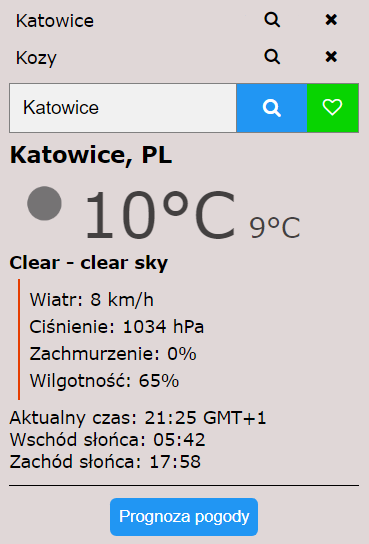
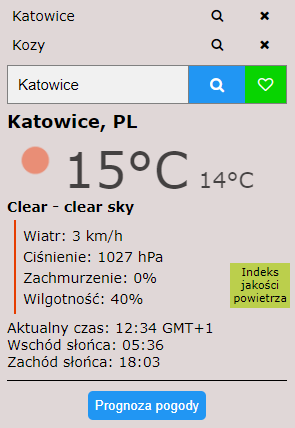
Add air pollution

diff --git a/script.js b/script.js
@@ -61,7 +61,7 @@ const showWeather = () => {
       .then((resp) => resp.json())
       .then(data => {
         document.getElementById("city").innerHTML = data.name+", "+data.sys.country;
-        document.getElementById("temp").innerHTML = "<img src='http://openweathermap.org/img/wn/"+data.weather[0].icon+"@2x.png' id='icon'/>"+
+        document.getElementById("temp").innerHTML = "<img src='http://openweathermap.org/img/wn/"+data.weather[0].icon+"@2x.png' class='icon'/>"+
         Math.round(parseFloat(data.main.temp)-273.15)+"&deg;C<span id='temp-feels'>"+Math.round(parseFloat(data.main.feels_like)-273.15)+"&deg;C</span>";
         document.getElementById("desc").innerHTML = data.weather[0].main+" - "+data.weather[0].description;
         document.getElementById("wind-speed").innerHTML = "Wiatr: "+Math.round(parseFloat(data.wind.speed)*(60*60)/1000)+" km/h";
@@ -77,6 +77,11 @@ const showWeather = () => {
         removeChild(parent);
         showForecast();
         returnTime((data.timezone/3600)-1);
+
+        let lat = data.coord.lat;
+        let lon = data.coord.lon;
+        let timezone = data.timezone
+        showAirPollution(lat, lon, timezone);
       })
       .catch(error => {
         console.log(error);
@@ -105,6 +110,7 @@ const showForecast = () => {
         container.appendChild(time);
 
         const icon = document.createElement('img');
+        icon.className = "icon-forecast";
         icon.src = 'http://openweathermap.org/img/wn/' + data.weather[0].icon + '.png';
         container.appendChild(icon);
 
@@ -127,6 +133,7 @@ const showForecast = () => {
         container.appendChild(forecastInfo);
 
         document.getElementById("forecast").appendChild(container);
+        forecastBgColor();
     })
   })
   .catch(error => {
@@ -134,6 +141,55 @@ const showForecast = () => {
   });
 }
 
+const showAirPollution = (lat, lon, timezone) => {
+  console.log(lat, lon);
+  const url = "https://api.openweathermap.org/data/2.5/air_pollution?lat="+lat+"&lon="+lon+"&appid=YOURAPIKEY";
+  fetch(url)
+  .then((resp) => resp.json())
+  .then(air => {
+    air.list.forEach(data => {
+      let aqi = data.main.aqi;
+      const airPollution = document.getElementById("air-pollution").style;
+      const airPollutionContent = document.getElementById("air-pollution-content").style;
+      if(aqi==1){
+        airPollution.backgroundColor = "#79bc6a";
+        airPollutionContent.backgroundColor = "#79bc6a";
+      }
+      if(aqi==2){
+        airPollution.backgroundColor = "#bbcf4c";
+        airPollutionContent.backgroundColor = "#bbcf4c";
+      }
+      if(aqi==3){
+        airPollution.backgroundColor = "#eec20b";
+        airPollutionContent.backgroundColor = "#eec20b";
+      }
+      if(aqi==4){
+        airPollution.backgroundColor = "#f29305";
+        airPollutionContent.backgroundColor = "#f29305";
+      }
+      if(aqi==5){
+        airPollution.backgroundColor = "#e8416f";
+        airPollutionContent.backgroundColor = "#e8416f";
+      }
+      document.getElementById("air-pollution-time").innerHTML = getTimeFromTimestamp((data.dt+timezone)-3600);
+      document.getElementById("air-pollution-aqi").innerHTML = "AQI: "+aqi;
+    })
+  })
+  .catch(error => {
+    console.log(error);
+  });
+}
+
+const forecastBgColor = () =>{
+  const containerColor = document.getElementsByClassName("forecast-container");
+  const iconSrc = document.getElementsByClassName("icon-forecast");
+  for(let i=0; i<iconSrc.length; i++){
+    const sliceSrc = iconSrc[i].src.slice(35,36);
+    if(sliceSrc=="d"){
+      containerColor[i].style.backgroundColor = "#0099e6";
+    } 
+  }
+}
 const forecastWeather = document.getElementById("forecast-weather").style;
 const currentWeather = document.getElementById("current-weather").style;
 const footer = document.getElementById("footer").style;

diff --git a/style.scss b/style.scss
@@ -14,6 +14,12 @@ body{
     h3{
         margin: 0;
         text-align: center;
+        position: fixed;
+        top: 0;
+        width: 100%;
+        padding: 5px;
+        background-color: rgb(224, 215, 215);
+        z-index: 10;
     }
 }
 #show-weather{
@@ -58,7 +64,7 @@ body{
         transition: 0.5s;
     }
 }
-#icon{
+.icon{
     width: 20%;
 }
 #info{
@@ -68,6 +74,33 @@ body{
     div{
         padding: 2px;
     }
+    a{
+        text-decoration: none;
+        color: black;
+        &:hover{
+            text-decoration: underline;
+        }
+    }
+}
+#air-pollution{
+    position: fixed;
+    right: 5px;
+    bottom: 120px;
+    width: 60px;
+    height: 45px;
+    text-align: center;
+    font-size: 11px;
+    &:hover + #air-pollution-content{
+        display: block;
+        position: absolute;
+        right: 65px;
+        bottom: 120px;
+        height: 45px;
+        text-align: center;
+    }
+}
+#air-pollution-content{
+    display: none;
 }
 #city{
     font-size: 18px;
@@ -124,6 +157,9 @@ body{
 #content, #forecast-weather {
     display: none;
 }
+#forecast {
+    margin-top: 40px;
+}
 .forecast-container{
     text-align: center;
     margin: 5px;
@@ -168,15 +204,16 @@ body{
     z-index: 99;
     border: none;
     outline: none;
-    background-color: #2196F3;
+    background-color: #08d401;
     color: white;
     cursor: pointer;
-    padding: 8px;
+    padding: 6px;
     border-radius: 10px;
-    font-size: 14px;
+    font-size: 20px;
     &:hover{
-        background-color: #0b7dda;
+        background-color: #08b302;
         transition: 0.5s;
+        font-size: 25px;
     }
 }
 #show-forecast{

diff --git a/style.css b/style.css
@@ -20,6 +20,12 @@ body {
 #forecast-weather h3 {
   margin: 0;
   text-align: center;
+  position: fixed;
+  top: 0;
+  width: 100%;
+  padding: 5px;
+  background-color: #e0d7d7;
+  z-index: 10;
 }
 
 #show-weather {
@@ -71,7 +77,7 @@ body {
   transition: 0.5s;
 }
 
-#icon {
+.icon {
   width: 20%;
 }
 
@@ -83,6 +89,38 @@ body {
 
 #info div {
   padding: 2px;
+}
+
+#info a {
+  text-decoration: none;
+  color: black;
+}
+
+#info a:hover {
+  text-decoration: underline;
+}
+
+#air-pollution {
+  position: fixed;
+  right: 5px;
+  bottom: 120px;
+  width: 60px;
+  height: 45px;
+  text-align: center;
+  font-size: 11px;
+}
+
+#air-pollution:hover + #air-pollution-content {
+  display: block;
+  position: absolute;
+  right: 65px;
+  bottom: 120px;
+  height: 45px;
+  text-align: center;
+}
+
+#air-pollution-content {
+  display: none;
 }
 
 #city {
@@ -151,6 +189,10 @@ body {
   display: none;
 }
 
+#forecast {
+  margin-top: 40px;
+}
+
 .forecast-container {
   text-align: center;
   margin: 5px;
@@ -201,18 +243,19 @@ body {
   z-index: 99;
   border: none;
   outline: none;
-  background-color: #2196F3;
+  background-color: #08d401;
   color: white;
   cursor: pointer;
-  padding: 8px;
+  padding: 6px;
   border-radius: 10px;
-  font-size: 14px;
+  font-size: 20px;
 }
 
 #back-weather:hover {
-  background-color: #0b7dda;
+  background-color: #08b302;
   -webkit-transition: 0.5s;
   transition: 0.5s;
+  font-size: 25px;
 }
 
 #show-forecast {

diff --git a/popup.html b/popup.html
@@ -23,6 +23,11 @@
           <div id="pressure"></div>
           <div id="clouds"></div>
           <div id="humidity"></div>
+          <div id="air-pollution"><a href="https://en.wikipedia.org/wiki/Air_quality_index#CAQI" target="_blank">Indeks jakości powietrza</a></div>
+          <div id="air-pollution-content">
+            <div id="air-pollution-aqi"></div>
+            <div id="air-pollution-time"></div>
+          </div>
         </div>
         <div id="current-time"></div>
         <div id="sunrise"></div>
@@ -30,10 +35,8 @@
       </div>
     </div>
     <div id="forecast-weather">
-      <div>
-        <button id="back-weather"><span>Wróć </span></button>
-        <h3>Prognoza pogody - <span id="forecast-city"></span><br /><span id="forecast-current-time"></span></h3>
-      </div>
+      <button id="back-weather"><span><i class="fa fa-arrow-left"></i></span></button>
+      <h3>Prognoza pogody - <span id="forecast-city"></span><br /><span id="forecast-current-time"></span></h3>
       <div id="forecast"></div>
     </div>
     <div id="footer">

diff --git a/README.md b/README.md
@@ -1,6 +1,6 @@
 # Weather Extension
 
-Chrome extension showing the current weather and 5 Day / 3 Hour Forecast in any city. <br />
+Chrome extension showing the current weather and 5 Day / 3 Hour Forecast in any city. Also display AQI on hover or click to learn more about AQI. <br />
 Made in JavaScript, layout made in HTML and SCSS.<br />
 Weather data from [OpenWeatherMap](https://openweathermap.org/)
 
